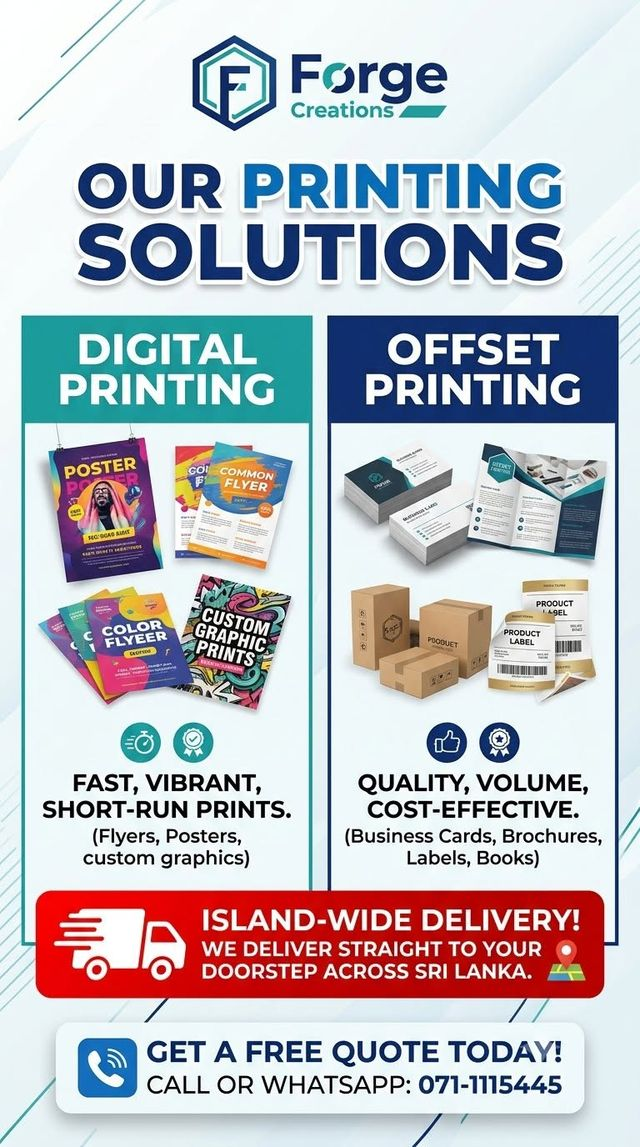
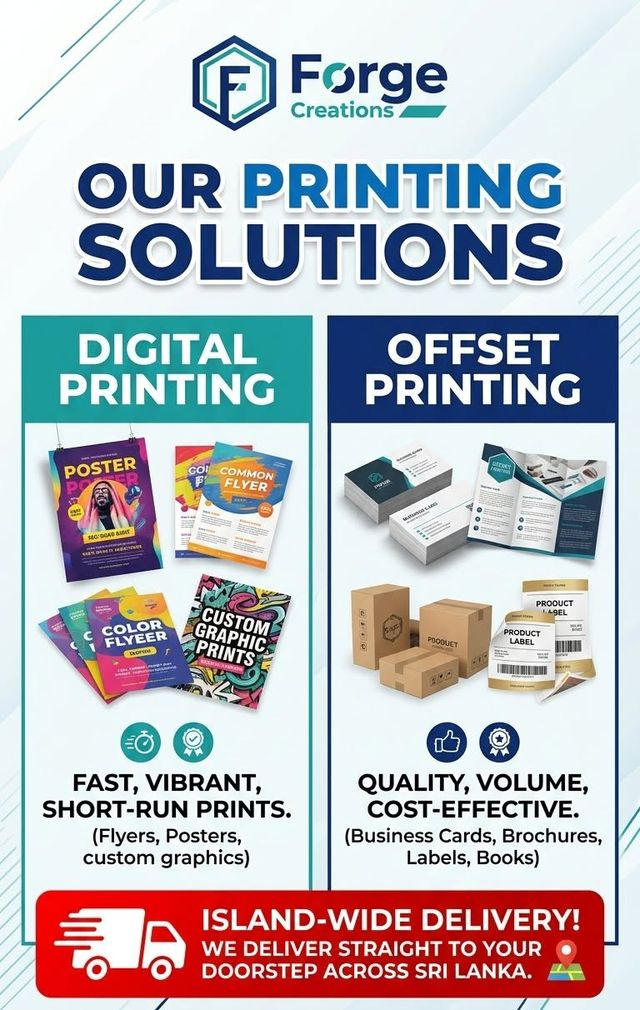
Remove WhatsApp from FORGE contacts on the Clothing page
FORGE's 071 111 5445 is not on WhatsApp, so FORGE gets Call and Facebook only.
The bulk-prices link now dials the number, and the Call or WhatsApp line is
cropped off the printing poster. 11-seven's own WhatsApp link is unchanged.

diff --git a/src/app/clothing/page.tsx b/src/app/clothing/page.tsx
@@ -9,7 +9,7 @@ import { forge, site } from "@/data/site";
 
 export const metadata: Metadata = {
   title: "Custom clothing — polos & T-shirts by FORGE creations",
-  description: `Premium polo shirts, sublimation-printed T-shirts and branded apparel by ${forge.name}, with island-wide delivery. Call or WhatsApp ${forge.phone.display}.`,
+  description: `Premium polo shirts, sublimation-printed T-shirts and branded apparel by ${forge.name}, with island-wide delivery. Call ${forge.phone.display} or message on Facebook.`,
   alternates: { canonical: "/clothing" },
   openGraph: {
     title: `Custom clothing by ${forge.name}`,
@@ -92,7 +92,7 @@ const gallery = [
   {
     src: "/images/forge/forge-printing.jpg",
     width: 640,
-    height: 1147,
+    height: 1010,
     alt: "FORGE creations printing solutions: digital printing for posters and flyers, and offset printing for business cards, brochures, labels and books, with island-wide delivery",
     caption: "Digital and offset printing",
   },
@@ -114,13 +114,9 @@ function ContactButtons({ dark = false }: { dark?: boolean }) {
         <PhoneCall size={18} />
         Call {forge.phone.display}
       </Button>
-      <Button href={forge.phone.whatsapp} variant={dark ? "outlineLight" : "outline"} size="lg" target="_blank" rel="noreferrer">
-        <WhatsApp size={18} />
-        WhatsApp
-      </Button>
       <Button href={forge.facebook} variant={dark ? "outlineLight" : "outline"} size="lg" target="_blank" rel="noreferrer">
         <Facebook size={18} />
-        Facebook
+        Message on Facebook
       </Button>
     </div>
   );
@@ -183,12 +179,6 @@ export default function ClothingPage() {
                   </a>
                 </li>
                 <li className="flex gap-4">
-                  <WhatsApp size={22} className="mt-0.5 shrink-0 text-gold-300" />
-                  <a href={forge.phone.whatsapp} target="_blank" rel="noreferrer" className="text-lg font-semibold text-cream hover:underline">
-                    WhatsApp {forge.phone.display}
-                  </a>
-                </li>
-                <li className="flex gap-4">
                   <Facebook size={22} className="mt-0.5 shrink-0 text-gold-300" />
                   <a href={forge.facebook} target="_blank" rel="noreferrer" className="text-lg font-semibold text-cream hover:underline">
                     {forge.name} on Facebook
@@ -211,7 +201,7 @@ export default function ClothingPage() {
             eyebrow="New collection"
             title="Premium polos, in bulk."
             description="FORGE’s new polo collection is sold to online sellers and shop owners, with a minimum order of 100 pieces."
-            action={{ href: forge.phone.whatsapp, label: "Ask about bulk prices" }}
+            action={{ href: `tel:${forge.phone.tel}`, label: "Call about bulk prices" }}
           />
         </Reveal>
         <Reveal delay={100}>
@@ -348,7 +338,7 @@ export default function ClothingPage() {
                   Get a free quote from {forge.name}.
                 </h2>
                 <p className="mt-3 max-w-xl text-lg text-ink-muted">
-                  Call or WhatsApp with what you need, and FORGE will take it from there.
+                  Call or message on Facebook with what you need, and FORGE will take it from there.
                 </p>
               </div>
             </div>

diff --git a/src/data/site.ts b/src/data/site.ts
@@ -175,11 +175,10 @@ export const forge = {
   intro:
     "A promotional-products company that supplies branded clothing and all kinds of promotional items around the island and overseas.",
   tagline: "Forging your brand, creating impact.",
-  /** Calls and WhatsApp (FORGE's posters say "Call or WhatsApp: 071-1115445"). */
+  /** Calls only — this number is not on WhatsApp (confirmed 17 Nov 2026), so FORGE gets Call + Facebook, no WhatsApp. */
   phone: {
     display: "071 111 5445",
     tel: "+94711115445",
-    whatsapp: "https://wa.me/94711115445",
   },
   facebook: "https://www.facebook.com/profile.php?id=61591696298829",
   /** Round badge logo from FORGE's Facebook profile picture (transparent corners). */

diff --git a/HANDOFF.md b/HANDOFF.md
@@ -96,7 +96,7 @@ _Confirmed 8 Nov 2026: the shop sells gym supplements. Google Maps link: https:/
 ## 4. Clothing page, skincare and phone posters (added 17 Nov 2026)
 
 - **`/clothing`** (in the main menu): custom polos and T-shirts made by **FORGE creations**. As agreed, orders go to
-  FORGE directly: call or WhatsApp 071 111 5445, and Facebook https://www.facebook.com/profile.php?id=61591696298829.
+  FORGE directly: call 071 111 5445 (not on WhatsApp, so no WhatsApp link) or Facebook https://www.facebook.com/profile.php?id=61591696298829.
   Everything on the page comes from FORGE's Facebook page and posters: the premium polo collection (bulk, 100+),
   sublimation T-shirts and fabrics, branded apparel, mugs and plates, flex/digital/offset printing, island-wide delivery.
 - **FORGE logo and photos** (`public/images/forge/`, added 17 Nov 2026 from FORGE's Facebook page): round logo badge
